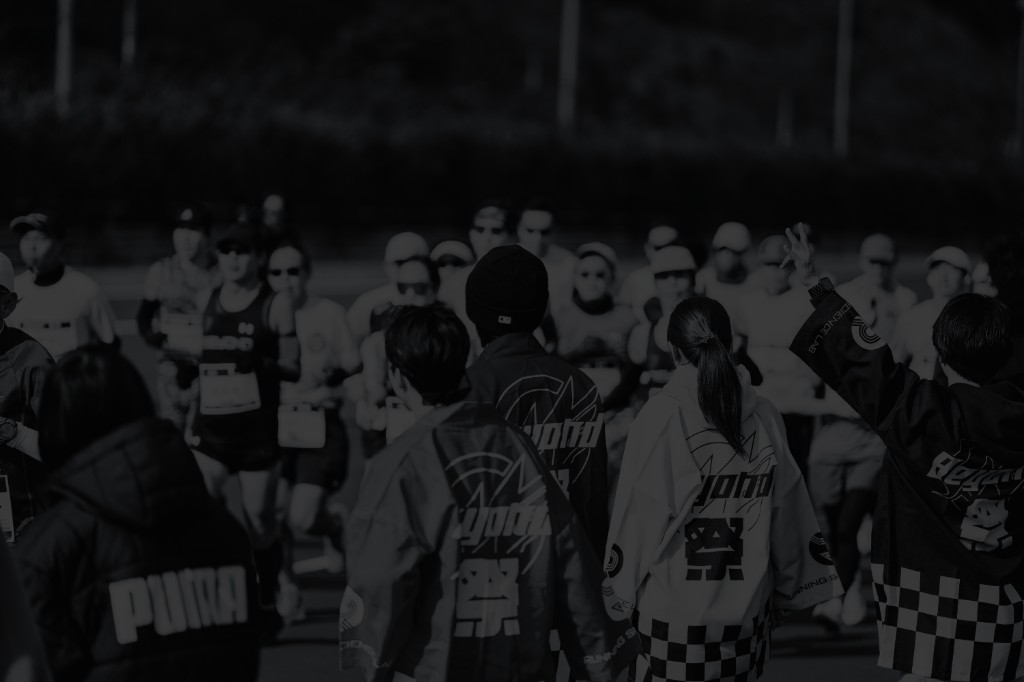
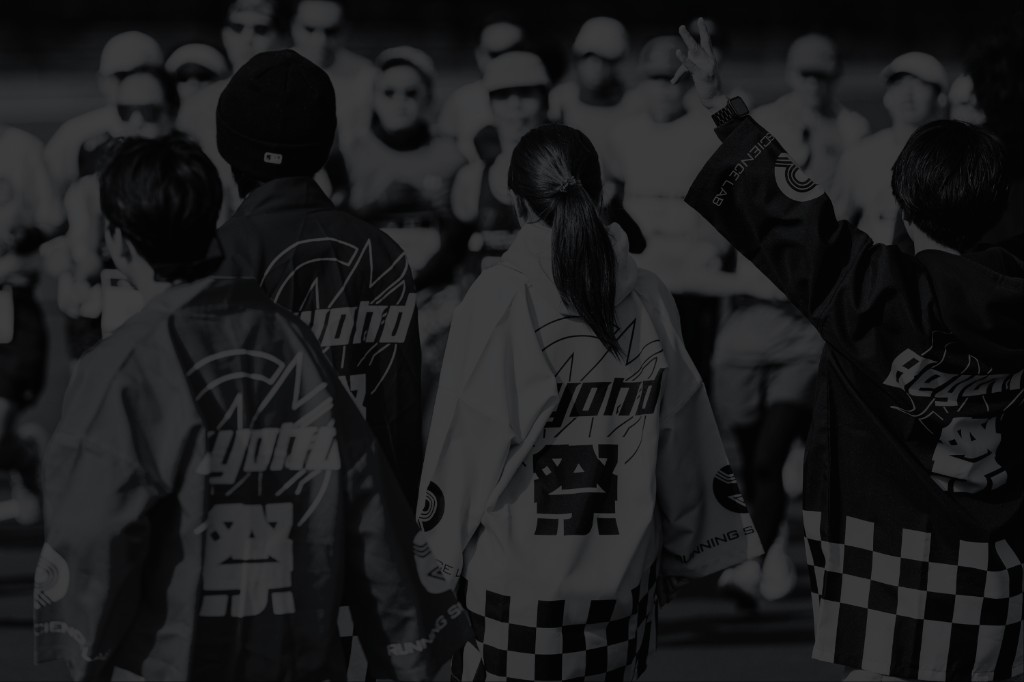
コンセプト背景写真を追加し、ヒーロー余白背景を更新。
A1 BEYOND と同様の写真背景＋暗幕オーバーレイをコンセプトセクションに適用。

diff --git a/style.css b/style.css
@@ -430,7 +430,32 @@ a.pagination__item:hover {
 
 /* Concept */
 .concept {
+  position: relative;
   text-align: center;
+  overflow: hidden;
+}
+
+.concept::before {
+  content: "";
+  position: absolute;
+  inset: 0;
+  background: url("images/concept-bg-photo.png") center / cover no-repeat;
+  pointer-events: none;
+  z-index: 0;
+}
+
+.concept::after {
+  content: "";
+  position: absolute;
+  inset: 0;
+  background: rgba(0, 0, 0, 0.45);
+  pointer-events: none;
+  z-index: 0;
+}
+
+.concept > .fade-in {
+  position: relative;
+  z-index: 1;
 }
 
 .concept__logo {
